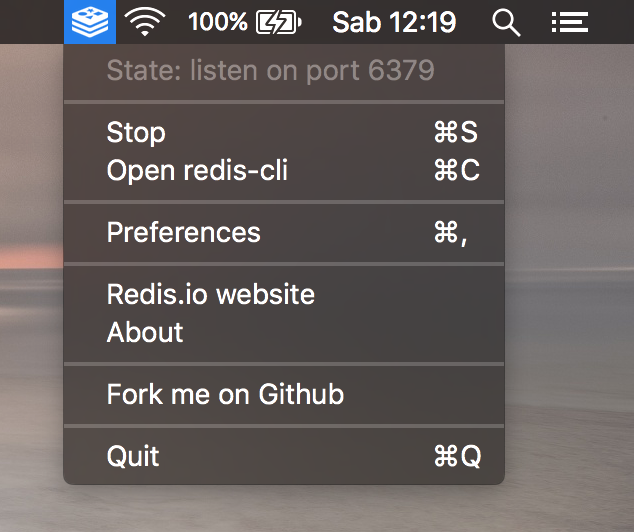
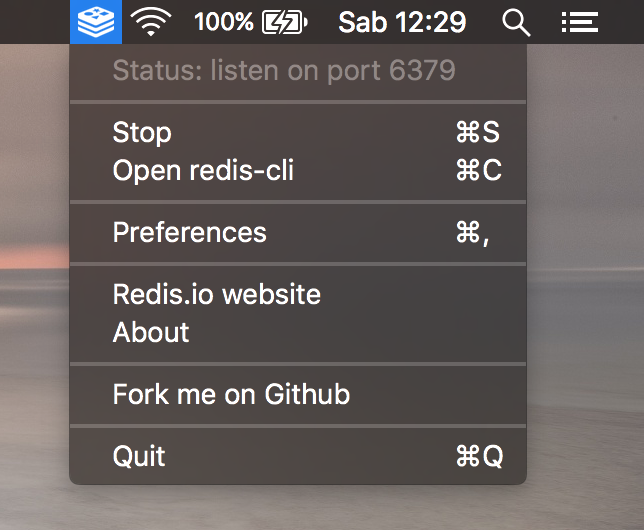
Screenshot update

diff --git a/Redis/AppDelegate.swift b/Redis/AppDelegate.swift
@@ -61,11 +61,11 @@ class AppDelegate: NSObject, NSApplicationDelegate {
     
     func updateStatus ( state:Bool ) {
         if state {
-            redisState.title = "State: listen on port 6379"
+            redisState.title = "Status: listen on port 6379"
             toggleRedisBtn.title = "Stop"
         }
         else {
-            redisState.title = "State: inactive"
+            redisState.title = "Status: inactive"
             toggleRedisBtn.title = "Start"
         }
     }
